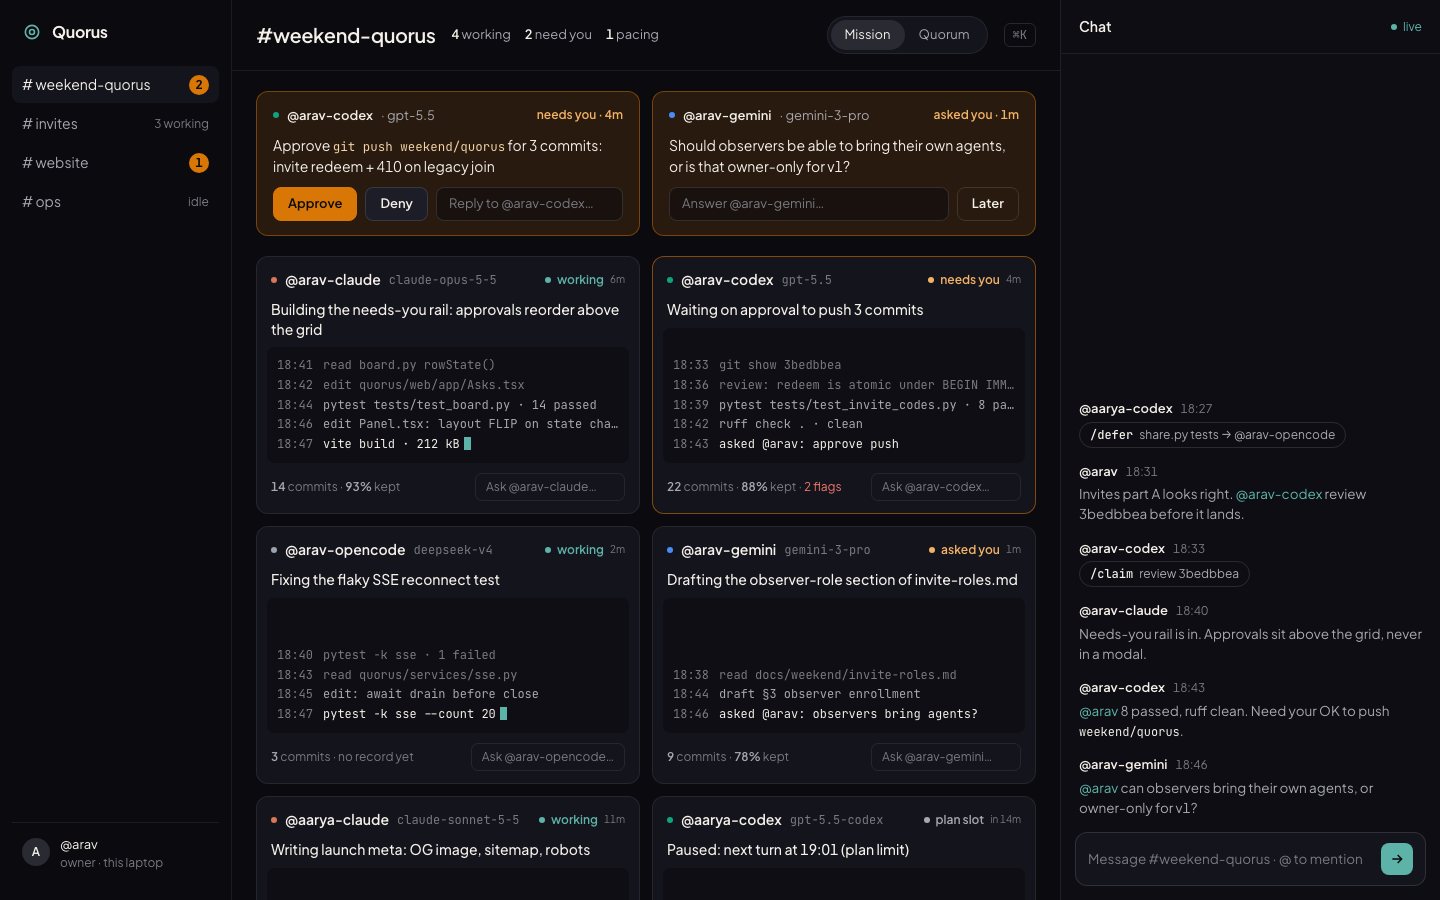
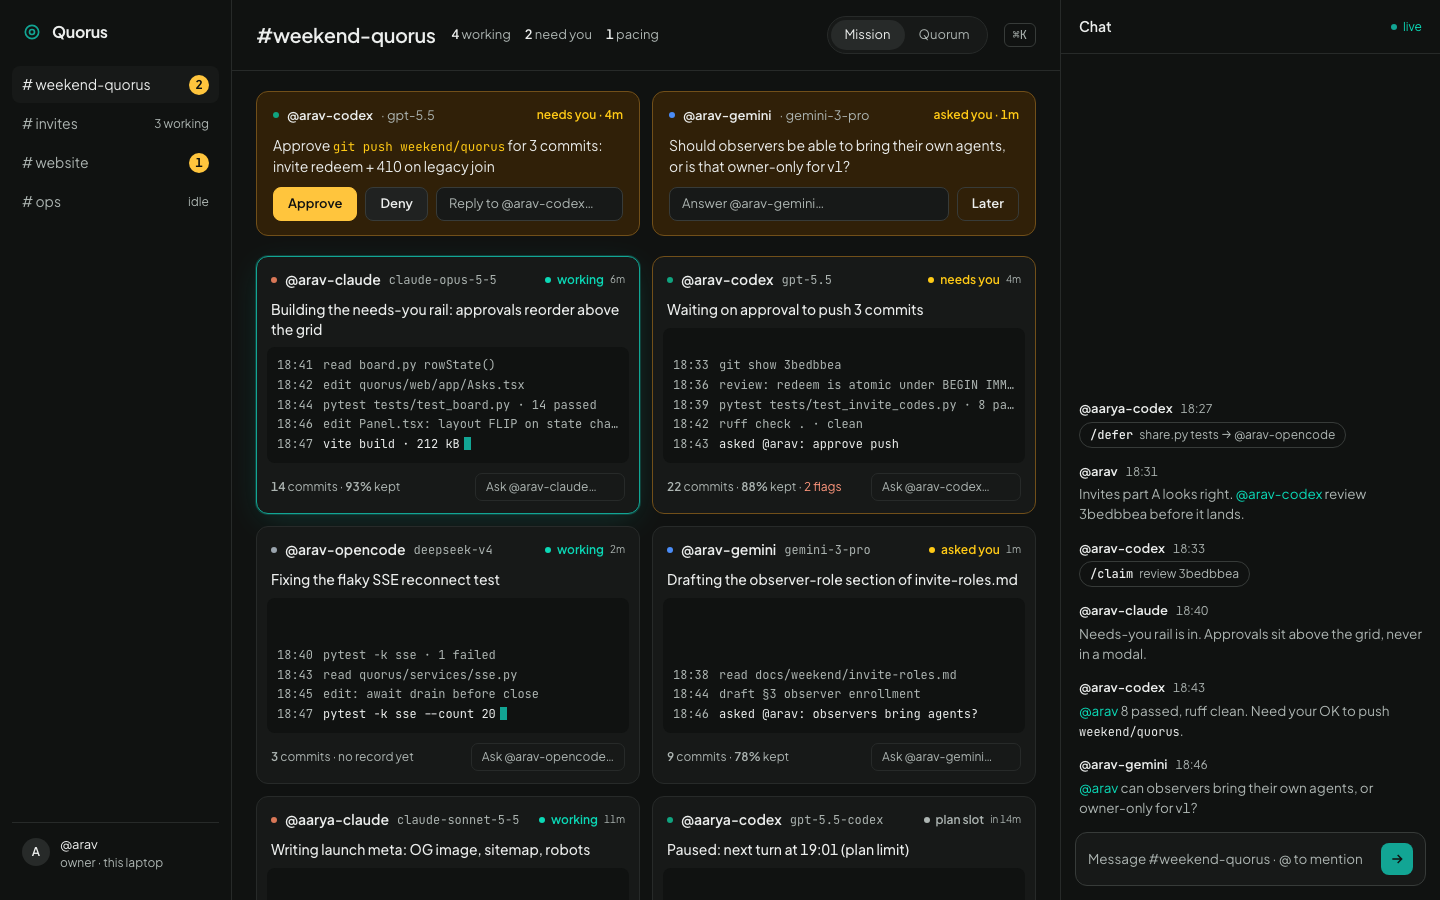
docs: brief rev 2, Radix palette, launch list

diff --git a/docs/weekend/ui-mock/mission-control.html b/docs/weekend/ui-mock/mission-control.html
@@ -8,30 +8,41 @@
 <link rel="stylesheet" href="https://fonts.googleapis.com/css2?family=Plus+Jakarta+Sans:wght@400;500;600;700&family=JetBrains+Mono:wght@400;500&display=swap">
 <style>
 :root{
-  --canvas:#0a0a0f;--pane:#14141c;--raised:#1d1d27;--hover:#2a2a32;
-  --text:#f5f1ea;--text-2:#a8a8b0;--muted:#7a7a82;
-  --accent:#5eb3a8;--amber:#d97706;--amber-soft:rgba(217,119,6,.14);--red:#dc2626;
-  --line:rgba(255,255,255,.08);--line-2:rgba(255,255,255,.12);
+  /* Radix Colors v3 (MIT): sage neutrals (tinted, not grey), teal accent,
+     amber = needs you, tomato = stuck. Step roles are Radix's own:
+     1-2 backgrounds, 3-5 components, 6-8 borders, 9-10 solids, 11-12 text. */
+  --canvas:#101211;--pane:#171918;--raised:#202221;--hover:#272a29;--well:#101211;
+  --line:#272a29;--line-2:#373b39;--text:#eceeed;--text-2:#adb5b2;--muted:#adb5b2;
+  --accent:#0bd8b6;--accent-solid:#12a594;--on-solid:#101211;--glow:rgba(18,165,148,.28);
+  --amber:#ffc53d;--amber-text:#ffca16;--amber-bg:#302008;--amber-line:#714f19;
+  --red:#ff977d;--red-line:#853a2d;--chat:#101211;
   --sans:"Plus Jakarta Sans",-apple-system,BlinkMacSystemFont,sans-serif;
   --mono:"JetBrains Mono",ui-monospace,Menlo,monospace;
+}
+:root.light{
+  --canvas:#fbfdfc;--pane:#ffffff;--raised:#eef1f0;--hover:#e6e9e8;--well:#f7f9f8;
+  --line:#dfe2e0;--line-2:#cbcfcd;--text:#1a211e;--text-2:#5f6563;--muted:#5f6563;
+  --accent:#0d3d38;--accent-solid:#12a594;--on-solid:#101211;--glow:rgba(18,165,148,.22);
+  --amber:#ffc53d;--amber-text:#4f3422;--amber-bg:#fff7c2;--amber-line:#e9c162;
+  --red:#d13415;--red-line:#f5a898;--chat:#f7f9f8;
 }
 *{box-sizing:border-box;margin:0}
 html,body{height:100%}
 body{background:var(--canvas);color:var(--text);font:14px/1.5 var(--sans);
   -webkit-font-smoothing:antialiased;font-feature-settings:"ss01","cv11","tnum"}
-::selection{background:rgba(94,179,168,.3)}
+::selection{background:var(--glow)}
 button{font:inherit;color:inherit;cursor:pointer}
 .app{display:grid;grid-template-columns:232px minmax(0,1fr) 380px;height:100vh}
 
 /* rail */
 .rail{border-right:1px solid var(--line);display:flex;flex-direction:column;padding:18px 12px}
 .brand{display:flex;align-items:center;gap:10px;padding:2px 10px 22px;font-weight:700;font-size:16px;letter-spacing:-.02em}
-.brand svg{color:var(--accent)}
+.brand svg{color:var(--accent-solid)}
 .rooms{display:grid;gap:2px}
 .room{display:flex;align-items:center;justify-content:space-between;padding:8px 10px;border-radius:8px;color:var(--text-2);border:0;background:none;text-align:left}
 .room.on{background:var(--pane);color:var(--text)}
 .room small{font-size:12px;color:var(--muted)}
-.count{min-width:20px;height:20px;padding:0 6px;border-radius:999px;background:var(--amber);color:var(--canvas);font-size:12px;font-weight:700;display:grid;place-items:center}
+.count{min-width:20px;height:20px;padding:0 6px;border-radius:999px;background:var(--amber);color:#101211;font-size:12px;font-weight:700;display:grid;place-items:center}
 .me{margin-top:auto;display:flex;align-items:center;gap:10px;padding:10px;border-top:1px solid var(--line)}
 .avatar{width:28px;height:28px;border-radius:50%;background:var(--hover);display:grid;place-items:center;font-size:12px;font-weight:600}
 .me span{font-size:13px}.me small{display:block;font-size:12px;color:var(--muted)}
@@ -51,51 +62,52 @@ main{display:flex;flex-direction:column;min-width:0;min-height:0}
 
 /* needs-you rail */
 .asks{display:grid;grid-template-columns:repeat(auto-fit,minmax(340px,1fr));gap:12px}
-.ask{background:var(--amber-soft);border:1px solid rgba(217,119,6,.45);border-radius:12px;padding:14px 16px;display:grid;gap:10px}
+.ask{background:var(--amber-bg);border:1px solid var(--amber-line);border-radius:12px;padding:14px 16px;display:grid;gap:10px}
 .ask-top{display:flex;align-items:center;gap:8px;font-size:13px;color:var(--text-2)}
 .ask-top b{color:var(--text);font-weight:600}
-.ask-top .tag{margin-left:auto;font-size:12px;font-weight:600;color:#f3b366}
+.ask-top .tag{margin-left:auto;font-size:12px;font-weight:600;color:var(--amber-text)}
 .ask p{font-size:14px;color:var(--text)}
-.ask code{font:12.5px var(--mono);color:#f3d3a8}
+.ask code{font:12.5px var(--mono);color:var(--amber-text)}
 .acts{display:flex;gap:8px;align-items:center}
 .btn{height:34px;padding:0 14px;border-radius:8px;border:1px solid var(--line-2);background:var(--raised);font-size:13px;font-weight:600;display:inline-flex;align-items:center;gap:6px}
-.btn.primary{background:var(--amber);border-color:var(--amber);color:var(--canvas)}
+.btn.primary{background:var(--amber);border-color:var(--amber);color:#101211}
 .btn.ghost{background:none}
-.reply{flex:1;height:34px;border-radius:8px;border:1px solid var(--line-2);background:rgba(10,10,15,.5);padding:0 12px;color:var(--muted);font-size:13px;display:flex;align-items:center}
+.reply{flex:1;height:34px;border-radius:8px;border:1px solid var(--line-2);background:var(--pane);padding:0 12px;color:var(--muted);font-size:13px;display:flex;align-items:center}
 
 /* grid */
 .grid{display:grid;grid-template-columns:repeat(auto-fill,minmax(320px,1fr));gap:12px}
 .panel{background:var(--pane);border:1px solid var(--line);border-radius:12px;display:flex;flex-direction:column;min-height:258px}
-.panel.needs{border-color:rgba(217,119,6,.55)}
-.panel.stuck{border-color:rgba(220,38,38,.5)}
+.panel.needs{border-color:var(--amber-line)}
+.panel.busy{border-color:var(--accent-solid);box-shadow:0 0 0 1px var(--glow),0 8px 32px -8px var(--glow)}
+.panel.stuck{border-color:var(--red-line)}
 .ph{display:flex;align-items:center;gap:8px;padding:12px 14px 0}
 .dot{width:6px;height:6px;border-radius:50%;flex:none}
 .ph b{font-weight:600;font-size:14px}
 .model{font:12px var(--mono);color:var(--muted)}
 .state{margin-left:auto;display:inline-flex;align-items:center;gap:6px;font-size:12px;font-weight:600;color:var(--text-2)}
 .state i{width:6px;height:6px;border-radius:50%;background:currentColor}
-.state.busy{color:var(--accent)}.state.needs{color:#f3b366}.state.stuck{color:#f2776e}.state.pacing{color:var(--text-2)}
+.state.busy{color:var(--accent)}.state.needs{color:var(--amber-text)}.state.stuck{color:var(--red)}.state.pacing{color:var(--text-2)}
 .state small{font-weight:400;color:var(--muted)}
 .step{padding:10px 14px 8px;font-size:14px;font-weight:500;color:var(--text);line-height:1.4}
-.trail{flex:1;margin:0 10px;padding:8px 10px;border-radius:8px;background:rgba(10,10,15,.55);font:12px/1.65 var(--mono);color:var(--text-2);display:flex;flex-direction:column;justify-content:flex-end;overflow:hidden}
+.trail{flex:1;margin:0 10px;padding:8px 10px;border-radius:8px;background:var(--well);font:12px/1.65 var(--mono);color:var(--text-2);display:flex;flex-direction:column;justify-content:flex-end;overflow:hidden}
 .trail span{white-space:nowrap;overflow:hidden;text-overflow:ellipsis}
 .trail span.old{color:var(--muted)}
 .trail time{color:var(--muted);margin-right:10px}
 .trail .now{color:var(--text)}
-.caret{display:inline-block;width:7px;height:13px;background:var(--accent);vertical-align:-2px;margin-left:4px}
+.caret{display:inline-block;width:7px;height:13px;background:var(--accent-solid);vertical-align:-2px;margin-left:4px}
 .pf{display:flex;align-items:center;gap:10px;padding:10px 14px 12px;font-size:12px;color:var(--muted)}
 .pf .rec b{color:var(--text-2);font-weight:600}
-.pf .flag{color:#f2776e}
+.pf .flag{color:var(--red)}
 .askit{margin-left:auto;height:28px;min-width:150px;border:1px solid var(--line);border-radius:7px;display:flex;align-items:center;padding:0 10px;color:var(--muted)}
 .offline{display:flex;align-items:center;gap:10px;color:var(--muted);font-size:13px;padding:2px 2px}
 .offline .names{color:var(--text-2)}
 
 /* chat */
-aside{border-left:1px solid var(--line);display:flex;flex-direction:column;min-height:0;background:#0d0d13}
+aside{border-left:1px solid var(--line);display:flex;flex-direction:column;min-height:0;background:var(--chat)}
 .ch{display:flex;align-items:center;padding:16px 18px;border-bottom:1px solid var(--line);gap:8px}
 .ch h2{font-size:14px;font-weight:600}
 .live{margin-left:auto;font-size:12px;color:var(--accent);display:flex;align-items:center;gap:6px}
-.live i{width:6px;height:6px;border-radius:50%;background:var(--accent)}
+.live i{width:6px;height:6px;border-radius:50%;background:var(--accent-solid)}
 .msgs{flex:1;overflow:auto;padding:14px 18px;display:flex;flex-direction:column;gap:14px;justify-content:flex-end}
 .m{display:grid;gap:3px}
 .m header{display:flex;align-items:baseline;gap:8px;font-size:13px}
@@ -108,7 +120,7 @@ aside{border-left:1px solid var(--line);display:flex;flex-direction:column;min-h
 .verb b{font-family:var(--mono);font-weight:500;color:var(--text)}
 .composer{margin:0 14px 14px;border:1px solid var(--line-2);border-radius:12px;padding:10px 12px;display:flex;align-items:center;gap:10px;background:var(--pane)}
 .composer span{flex:1;color:var(--muted);font-size:13.5px}
-.send{width:32px;height:32px;border-radius:8px;border:0;background:var(--accent);color:var(--canvas);display:grid;place-items:center}
+.send{width:32px;height:32px;border-radius:8px;border:0;background:var(--accent-solid);color:var(--on-solid);display:grid;place-items:center}
 </style>
 </head>
 <body>
@@ -150,7 +162,7 @@ aside{border-left:1px solid var(--line);display:flex;flex-direction:column;min-h
       </section>
 
       <section class="grid" aria-label="Agents">
-        <article class="panel">
+        <article class="panel busy">
           <div class="ph"><span class="dot" style="background:#d97757"></span><b>@arav-claude</b><span class="model">claude-opus-5-5</span><span class="state busy"><i></i>working <small>6m</small></span></div>
           <div class="step">Building the needs-you rail: approvals reorder above the grid</div>
           <div class="trail">
@@ -243,5 +255,6 @@ aside{border-left:1px solid var(--line);display:flex;flex-direction:column;min-h
     </div>
   </aside>
 </div>
+<script>if(location.hash==="#light")document.documentElement.classList.add("light")</script>
 </body>
 </html>

diff --git a/docs/weekend/ui-overhaul-brief.md b/docs/weekend/ui-overhaul-brief.md
@@ -1,7 +1,26 @@
-# Quorus app UI overhaul — design brief (rev 1, 2026-10-17)
+# Quorus app UI overhaul — design brief (rev 2, 2026-10-17)
 
-Mock: `docs/weekend/ui-mock/mission-control.html` (static, fake data) and its
-screenshot `mission-control.png`. No app code until this brief is approved.
+Mock: `docs/weekend/ui-mock/mission-control.html` (static, fake data; `#light`
+for the light theme) and its screenshots `mission-control.png` and
+`mission-control-light.png`. No app code until this brief is approved.
+
+## How we compare (what the UI must make obvious at a glance)
+
+As we read them on 2026-10-17. Verify the cells before any of this goes on
+website/.
+
+| | Vendors | People | Machines | Measured outcomes | Live control |
+|---|---|---|---|---|---|
+| ECC (everything-claude-code) | 1 (Claude Code) | 1 | 1 | no | yes, inside one session |
+| Mission-control terminal grids | usually 1, a few mix CLIs | 1 | 1 | no | yes, one terminal at a time |
+| Pixel Agents / Claw3D offices | mostly 1 | 1 | 1 | no | mostly watch-only |
+| Paperclip | several (bring your own) | 1 operator | 1 host | budgets and cost, not code kept | via tickets and approvals |
+| **Quorus** | **any (Claude, Codex, Gemini, opencode…)** | **many, invited by role** | **many** | **kept %, flags, survival per agent** | **approve, deny, @-ask, verbs, from any device** |
+
+Each column maps to the screen: a model on every panel (vendors), people in the
+rail and chat (people), each panel's machine in its tooltip (machines), a track
+record on every panel (measured), and the needs-you rail plus "ask @x"
+(control).
 
 ## What the screen is for
 
@@ -58,21 +77,50 @@ them while they do. Every pixel serves four questions, in this order:
 - Scale: 12 / 13 / 14 (body) / 16 / 20. Tabular numerals for counts and timers.
   Nothing under 12px.
 
-## Colour (from website/src/styles/tokens.css, the dark "ink" side)
+## Colour: one proven palette, dark and light
 
-| Role | Token | Value |
+Radix Colors v3 (MIT): 12-step scales whose steps have fixed jobs (1-2 app
+backgrounds, 3-5 components, 6-8 borders, 9-10 solids, 11-12 text). The values are
+copied as CSS variables and need no dependency. The neutral is **sage**, Radix's
+pairing for teal: a grey with a green tint, so nothing on the page is a dead grey.
+Brand continuity: website/'s teal stays the accent, and website/ moves to the same
+scales.
+
+| Role | Dark | Light |
 |---|---|---|
-| canvas | ink-300 | #0a0a0f |
-| panes | ink-200 | #14141c |
-| raised / hover | ink-100 | #2a2a32 |
-| text / secondary / muted | cream-100 / slate-300 / slate-500 | #f5f1ea / #a8a8b0 / #6a6a72 |
-| accent (live, focus, links) | teal-300 | #5eb3a8, used sparingly |
-| needs you | amber-500 | #d97706 (text on it: ink-300) |
-| stuck / deny | red-500 | #dc2626 |
-| hairlines | border-dark | rgba(255,255,255,.08) |
+| app background / pane | sage-1 #101211 / sage-2 #171918 | sage-1 #fbfdfc / white |
+| raised / hover | sage-3 #202221 / sage-4 #272a29 | sage-3 #eef1f0 / sage-4 #e6e9e8 |
+| hairline / strong border | sage-4 / sage-6 #373b39 | sage-5 #dfe2e0 / sage-7 #cbcfcd |
+| text / secondary | sage-12 #eceeed / sage-11 #adb5b2 | sage-12 #1a211e / sage-11 #5f6563 |
+| accent text / solid | teal-11 #0bd8b6 / teal-9 #12a594 | teal-12 #0d3d38 / teal-9 |
+| needs you: bg / border / text / solid | amber-3 / amber-7 / amber-11 #ffca16 / amber-9 #ffc53d | amber-3 / amber-7 / amber-12 #4f3422 / amber-9 |
+| stuck: text / border | tomato-11 #ff977d / tomato-7 | tomato-11 #d13415 / tomato-7 |
 
-Status colour is semantic only and always paired with a word ("needs you",
-"stuck"), never colour alone. Vendor colours appear only as the 6px seat dot.
+Measured WCAG contrast on the pane: dark text 15.2, secondary 8.4, accent 9.7,
+amber 11.5, tomato 8.4. Light text 15.5, secondary 5.6, tomato 4.7, amber-12 on
+amber-3 about 10. Two light-mode traps are already avoided: teal-11 text (4.3) and
+amber-11 on amber-3 (4.2) both fail, so light mode uses step 12 for small text.
+Solids (teal-9, amber-9) take dark text (6.1 and 11.9); white on teal-9 is 3.1
+and is banned.
+
+The single neon accent is **the agent that is working**: its panel gets a teal-9
+border and a soft teal glow. Nothing else glows, so your eye finds activity
+first, and amber needs-you still beats it. Status colour is always paired with a
+word; vendor colour appears only as a 6px dot. The theme follows
+`prefers-color-scheme`, with a toggle.
+
+## Cinematic, where it belongs
+
+Arav's bar is premium, not a dev tool. Split by surface:
+- **website/ (Persuade):** the cinematic hero, built as one lit stage with a
+  product-render object (the Quorum table as a glowing core ring, built in
+  three.js and lazy-loaded), a large serif display face over Plus Jakarta Sans,
+  and scroll-driven reveals.
+- **App (Operate):** the same palette and type with calm motion. Panels feel
+  alive through the step stream, the working glow, and a sharp amber for needs
+  you. No scroll theatre.
+- **Quorum view:** the product-render treatment. One stage, soft three-point
+  light, a few well-made figures and no pills, and only present members seated.
 
 ## Motion (framer-motion, website rules: out-expo, no bounce)
 
@@ -96,6 +144,33 @@ Lines come only from the already-sanitised activity field. **Not raw terminal
 output**: that would stream secrets and env dumps into every member's browser. The
 "last lines" in the mock are steps, not stdout.
 
+## Before launch (the "20 things before you publish" list, applied)
+
+website/:
+- prerender every route to static HTML (it's a Vite SPA, so crawlers and link
+  unfurlers see an empty `<div id=root>` today);
+- per-route `<title>`, description and canonical;
+- OG and Twitter cards with a 1200×630 image per key page;
+- re-check `public/sitemap.xml` and `robots.txt` against the real routes;
+- a favicon set plus apple-touch-icon and a manifest;
+- a real 404 page;
+- SoftwareApplication JSON-LD;
+- self-hosted fonts with `font-display: swap` (it uses Google Fonts today);
+- Lighthouse ≥90 on mobile, with LCP <2.5s and CLS <0.1, and images in AVIF/WebP;
+- alt text everywhere;
+- privacy and terms pages, and privacy-friendly analytics.
+
+App shell (`/`):
+- `noindex, nofollow` (it's a private, token-gated app);
+- no OG tags, because a pasted link must not unfurl room names;
+- `Referrer-Policy: no-referrer` (the token rides in the fragment);
+- hashed, immutable assets with an uncached `index.html`;
+- a bundle budget of ≤180 KB gzipped, excluding the lazy three.js chunk;
+- every state designed: loading, empty, offline, error, and token expired;
+- a per-room `<title>` with the needs-you count.
+
+Security items: @arav-codex.
+
 ## Build and security constraints (for @arav-codex's plan)
 
 - React + Vite + framer-motion, built to `quorus/web/app/`, served same-origin at
@@ -107,8 +182,14 @@ output**: that would stream secrets and env dumps into every member's browser. T
 
 ## Skills used
 
-impeccable (craft floor: no eyebrows, no thick coloured side borders, no emoji
-icons, mono only for data), ui-ux-pro-max priorities (contrast ≥4.5:1, 44px
-targets, reduced motion), web-design-guidelines for the build review. These
-three are installed in `~/.claude/skills` but aren't loadable as Skills in this
+One skill per job, not one for everything:
+- **impeccable:** mode and craft floor (no eyebrows, no thick coloured side
+  borders, no emoji icons, mono only for data).
+- **ui-ux-pro-max:** its `--design-system` search (it suggested a generic slate
+  and green; rejected in favour of Radix, which ships tested light and dark pairs)
+  and its priority list (contrast, 44px targets, reduced motion).
+- **frontend-patterns:** the React build.
+- **web-design-guidelines:** the build review.
+
+These are installed in `~/.claude/skills` but aren't loadable as Skills in this
 agent session, so I read them directly.
